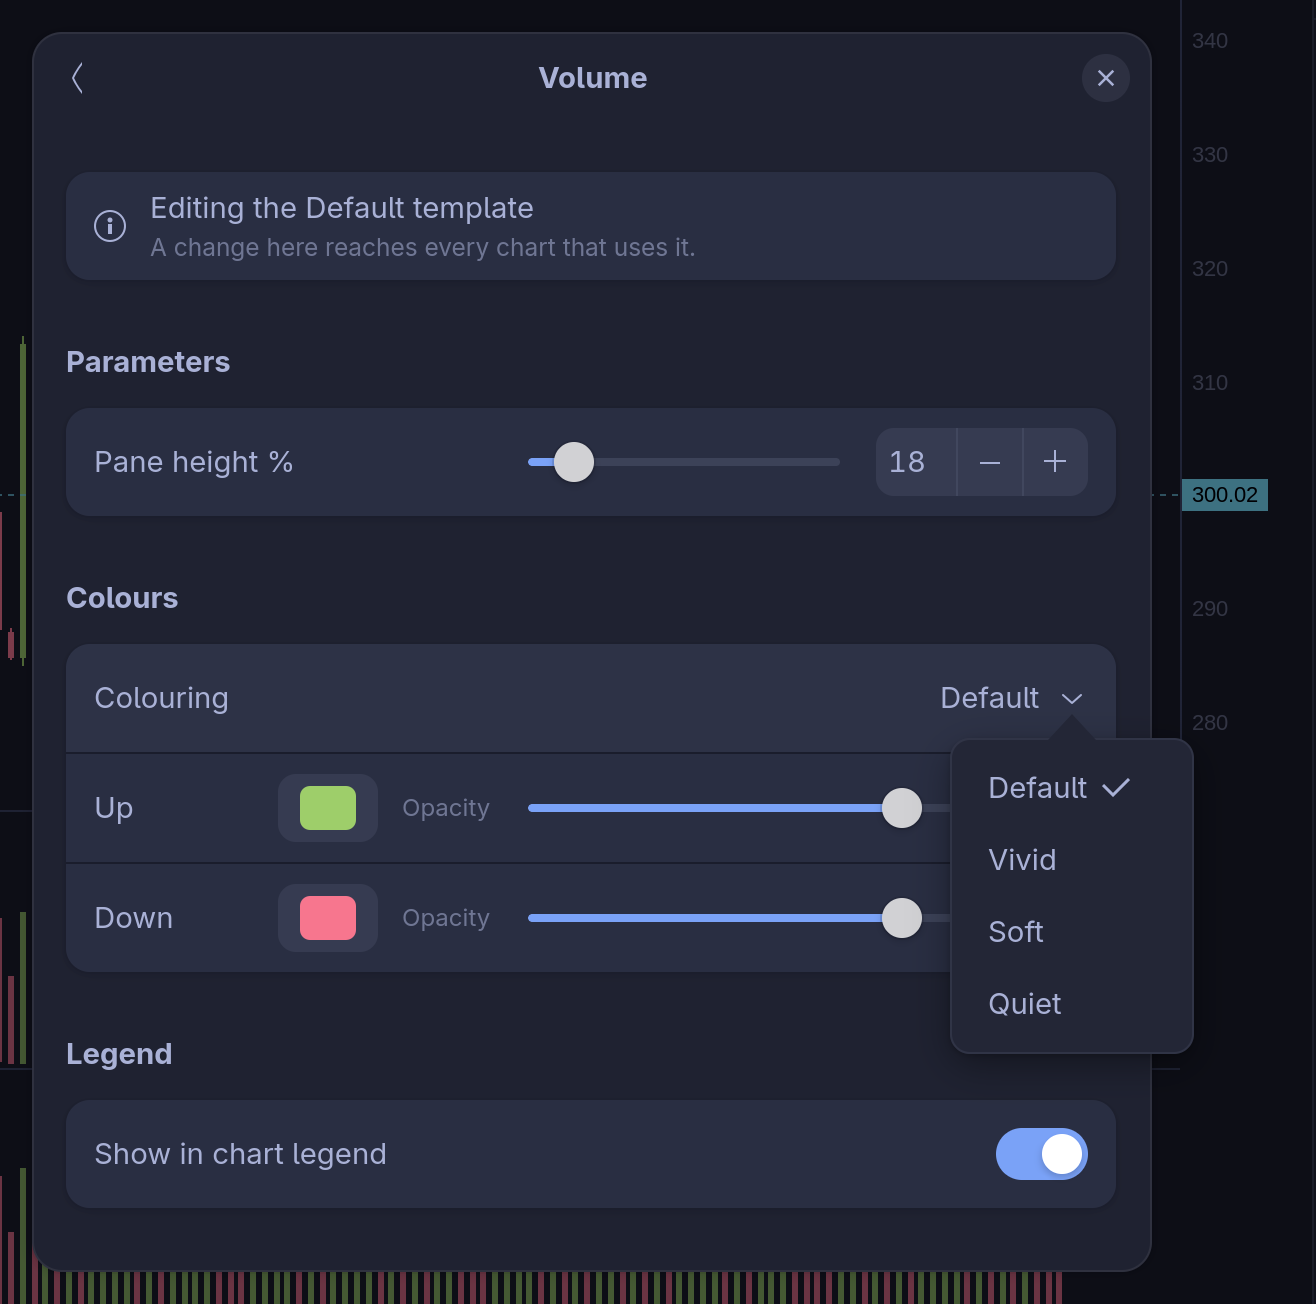
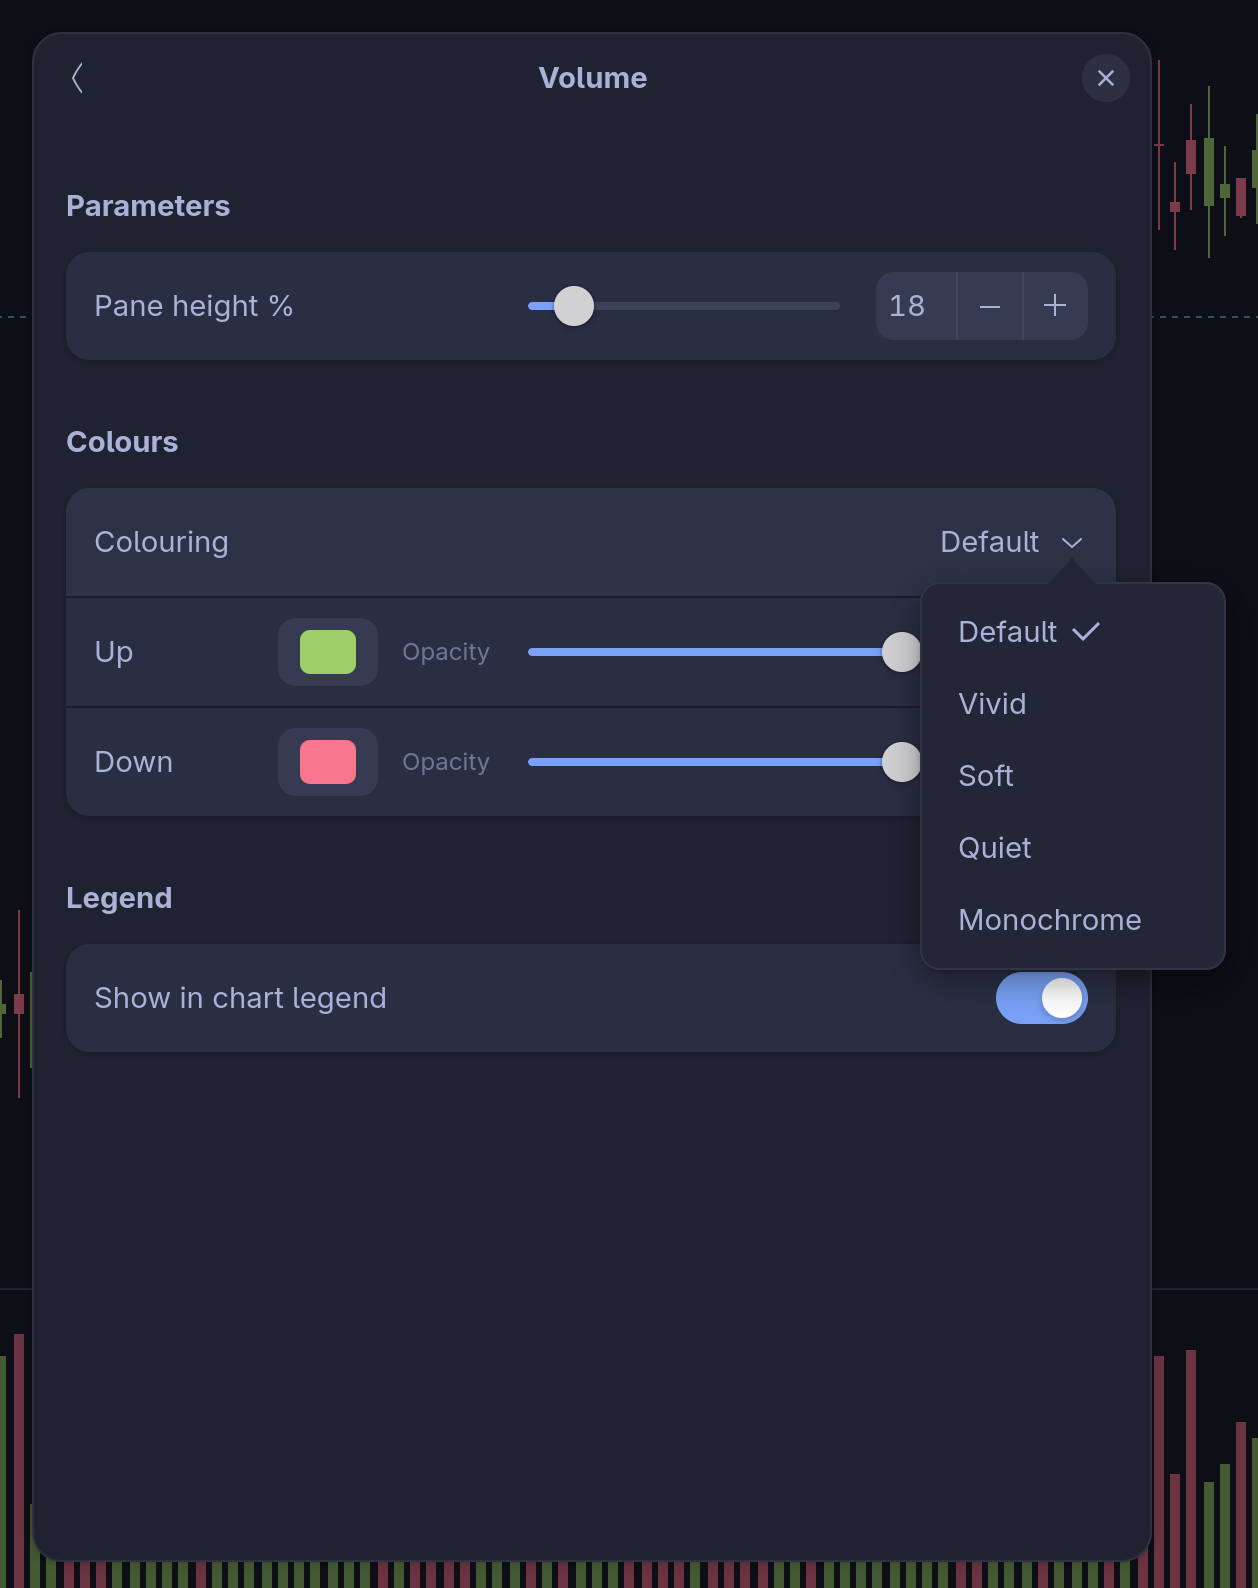
Show the footprint, volume delta and large orders in the manual

diff --git a/site/manual/indicators/order-flow/large-orders.md b/site/manual/indicators/order-flow/large-orders.md
@@ -12,6 +12,18 @@ A bubble at the price and bar of every trade bigger than a size you choose, in t
 |---|---|---|---|
 | Over the candles | **Large > 50 · 20** | `large` | `large_orders` |
 
+<!-- regenerate:
+theme: a fresh profile's default
+window: 1400x900 @2, bin/headless-window; built with --features fakes, a sandboxed HOME and XDG_*, signed in to the Fake Rich Feed in Preferences, Data
+state:
+  omacharts chartbook create "Order flow" --symbol ES --switch
+  omacharts chart set --resolution 1m
+  omacharts chart indicator add large_orders
+capture: bin/headless-window cli chart screenshot --output /tmp/large-orders.png; magick /tmp/large-orders.png -quality 88 site/assets/manual/indicators/large-orders.jpg
+crop: none
+-->
+{% include figure.html src="/assets/manual/indicators/large-orders.jpg" alt="ES one-minute candles with bubbles of different sizes at the prices of large trades, green for buying and red for selling" caption="Large Orders on ES 1m, on the synthetic feed." %}
+
 ## Settings
 
 | Setting | Default | Allowed |
@@ -21,8 +33,8 @@ A bubble at the price and bar of every trade bigger than a size you choose, in t
 | **Size against** | Session | **Visible bars**: the large orders on screen, so bubbles change size as the chart scrolls. **Session**: the session's. **RTH or ETH**: the session's regular or extended hours', each against its own |
 | **Combine same-time prints** | On | Off makes every print its own order |
 | **Colouring** | **Default** | **Vivid**, **Soft**, **Quiet** or **Monochrome** ([Colours](/manual/indicators/order-flow/#colours)) |
-| **Buying** | The colouring's up colour, at 55% opacity | A palette name, or a custom colour, with its **Opacity** |
-| **Selling** | The colouring's down colour, at 55% opacity | The same |
+| **Buying** | The colouring's up colour, at 35% opacity, its rim stronger | A palette name, or a custom colour, with its **Opacity** |
+| **Selling** | The colouring's down colour, at 35% opacity, its rim stronger | The same |
 
 ## Combining prints
 
@@ -30,7 +42,9 @@ An order that takes more than the best price offers fills against several restin
 
 ## How far back
 
-Large orders start where the feed's trades start. On Rithmic, the trades of earlier days are fetched once from its history and kept on disk by symbol and day, newest first, until a day comes back empty. Rithmic publishes no limit on how far back that goes. On Sierra Chart they are read from its own data files. Nothing is shown for days before the trades begin, and the chart is drawn first: the bubbles appear once their trades are read.
+Large orders start where the feed's trades start. On Rithmic, earlier days' trades are fetched once from its history and kept on disk, back to the first weekday it has none of. Rithmic publishes no limit on how far back that goes. On Sierra Chart they are read from its own data files. Nothing is shown for days before the trades begin, and the chart is drawn first: the bubbles of the last two days appear once their trades are read, and the earlier ones after.
+
+A continuous chart of a futures root shows the large orders of the month that is front now. An earlier month traded at prices of its own, and its trades are not moved onto the continuous chart.
 
 ## See also
 

diff --git a/site/manual/indicators/volume/volume.md b/site/manual/indicators/volume/volume.md
@@ -48,13 +48,12 @@ Chosen here, **Monochrome** paints rising volume in the theme's neutral and fall
 theme: tokyo-night
 window: 2560x1440 @2, bin/headless-window (HOME sandboxed, theme seeded)
 state:
-  (one NVDA 1D chart on the Default template, sidebar hidden)
-  key ctrl+shift+s; click 700 72 (Indicators); click 600 282 (Volume); click 800 383 (the Colouring row)
+  (one ES 1m chart on the synthetic feed, window 1400x900 @2, a Volume indicator and nothing else)
+  key ctrl+shift+s; click 700 90 (Indicators); click 600 355 (Volume); click 900 323 (the Colouring row)
 capture: bin/headless-window shot /tmp/volume-colouring.png
-crop: the dialog, 16px round it and the open list
-retaken: on the synthetic feed in a test window (fake prices, no live symbol), the same dialog in the same state
+crop: 1258x1588+808+104, the dialog, 16px round it and the open list
 -->
-{% include figure.html src="/assets/manual/indicators/volume-colouring.png" alt="The Volume indicator's settings with its Colouring list open on Default, Vivid, Soft and Quiet, over the Up and Down rows with their Opacity" caption="A volume strip's own Colouring." %}
+{% include figure.html src="/assets/manual/indicators/volume-colouring.png" alt="The Volume indicator's settings with its Colouring list open on Default, Vivid, Soft, Quiet and Monochrome, over the Up and Down rows with their Opacity" caption="A volume strip's own Colouring." %}
 
 <!-- regenerate:
 as above, with the Colouring row closed

diff --git a/site/manual/indicators/order-flow/volume-delta.md b/site/manual/indicators/order-flow/volume-delta.md
@@ -12,6 +12,18 @@ Each bar's volume traded at the ask less its volume traded at the bid, drawn as 
 |---|---|---|---|
 | In a strip of its own | **VD** | `vd` | `volume_delta` |
 
+<!-- regenerate:
+theme: a fresh profile's default
+window: 1400x900 @2, bin/headless-window; built with --features fakes, a sandboxed HOME and XDG_*, signed in to the Fake Rich Feed in Preferences, Data
+state:
+  omacharts chartbook create "Order flow" --symbol ES --switch
+  omacharts chart set --resolution 1m
+  omacharts chart indicator add volume_delta
+capture: bin/headless-window cli chart screenshot --output /tmp/volume-delta.png; magick /tmp/volume-delta.png -quality 88 site/assets/manual/indicators/volume-delta.jpg
+crop: none
+-->
+{% include figure.html src="/assets/manual/indicators/volume-delta.jpg" alt="ES one-minute candles with a strip under them of one candle a bar, rising from nought for more buying and falling for more selling" caption="Volume Delta under ES 1m, on the synthetic feed." %}
+
 ## Settings
 
 | Setting | Default | Allowed |
